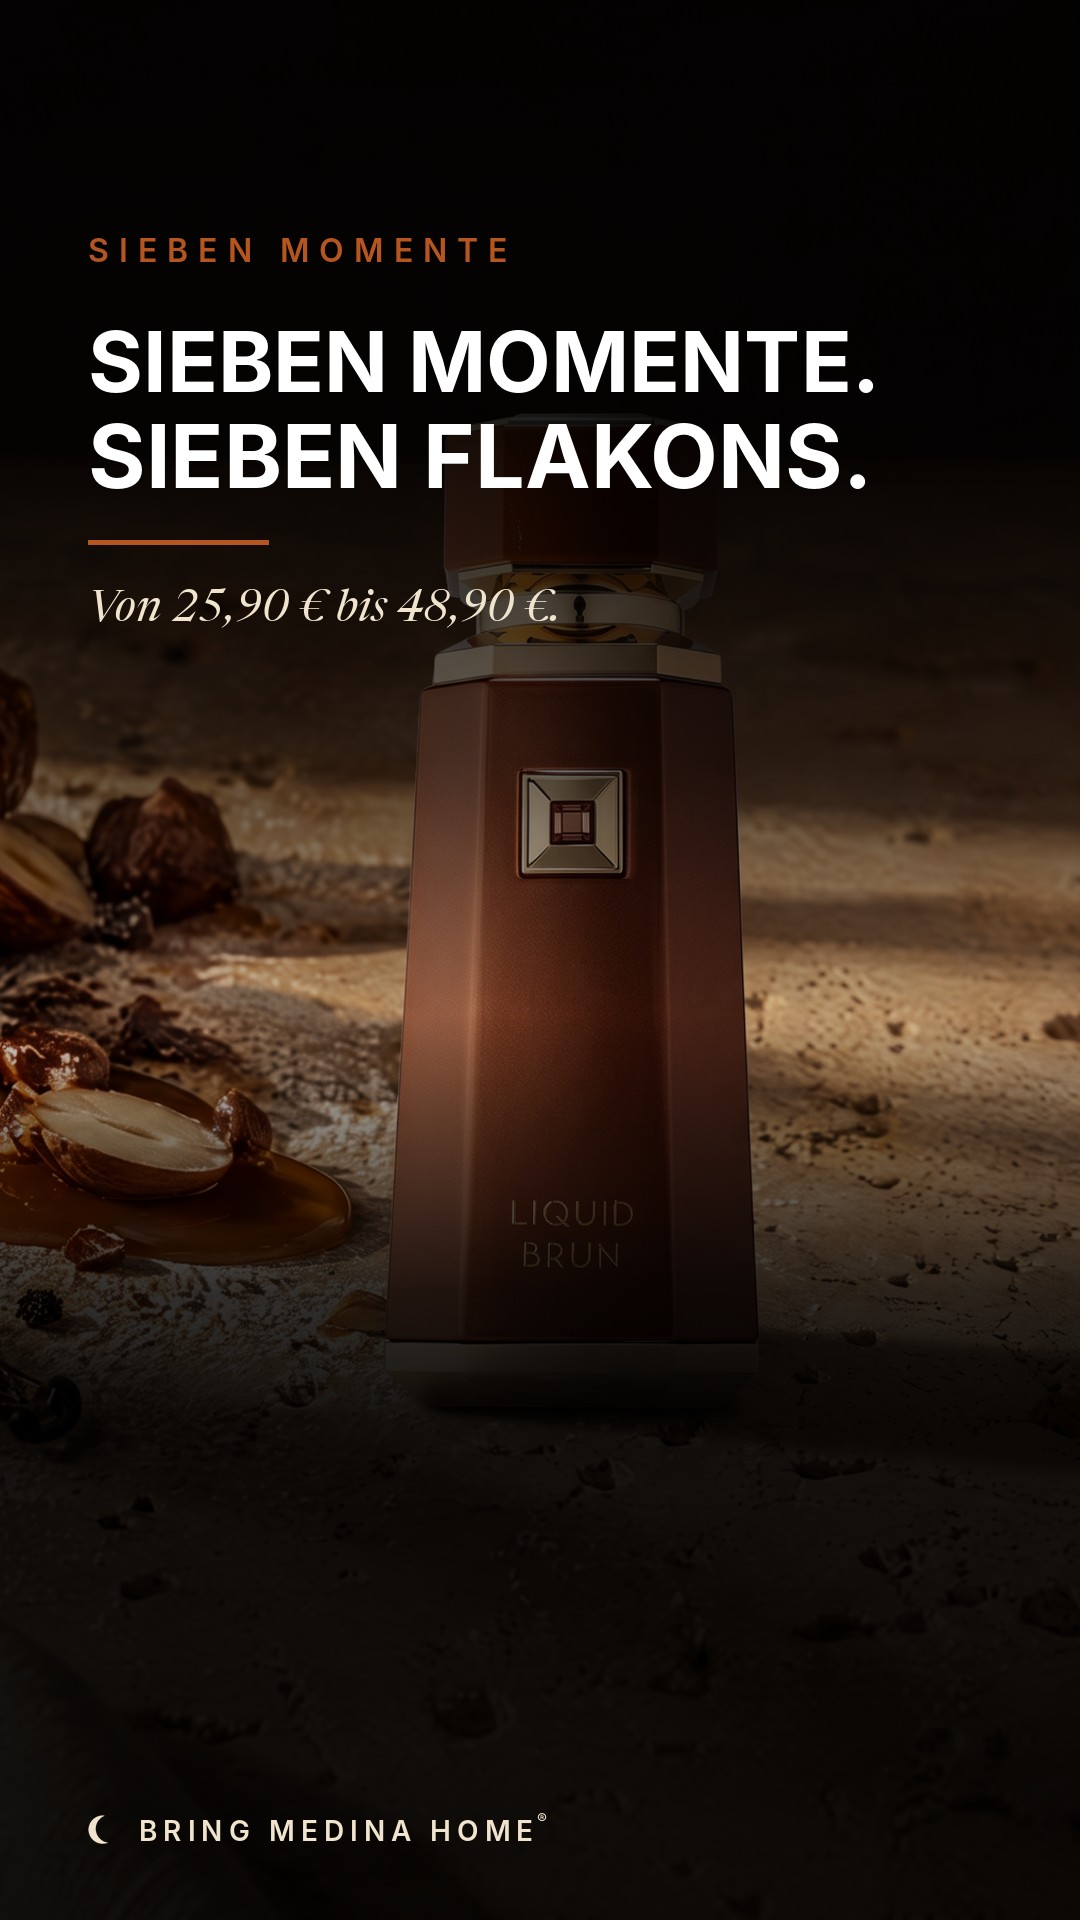
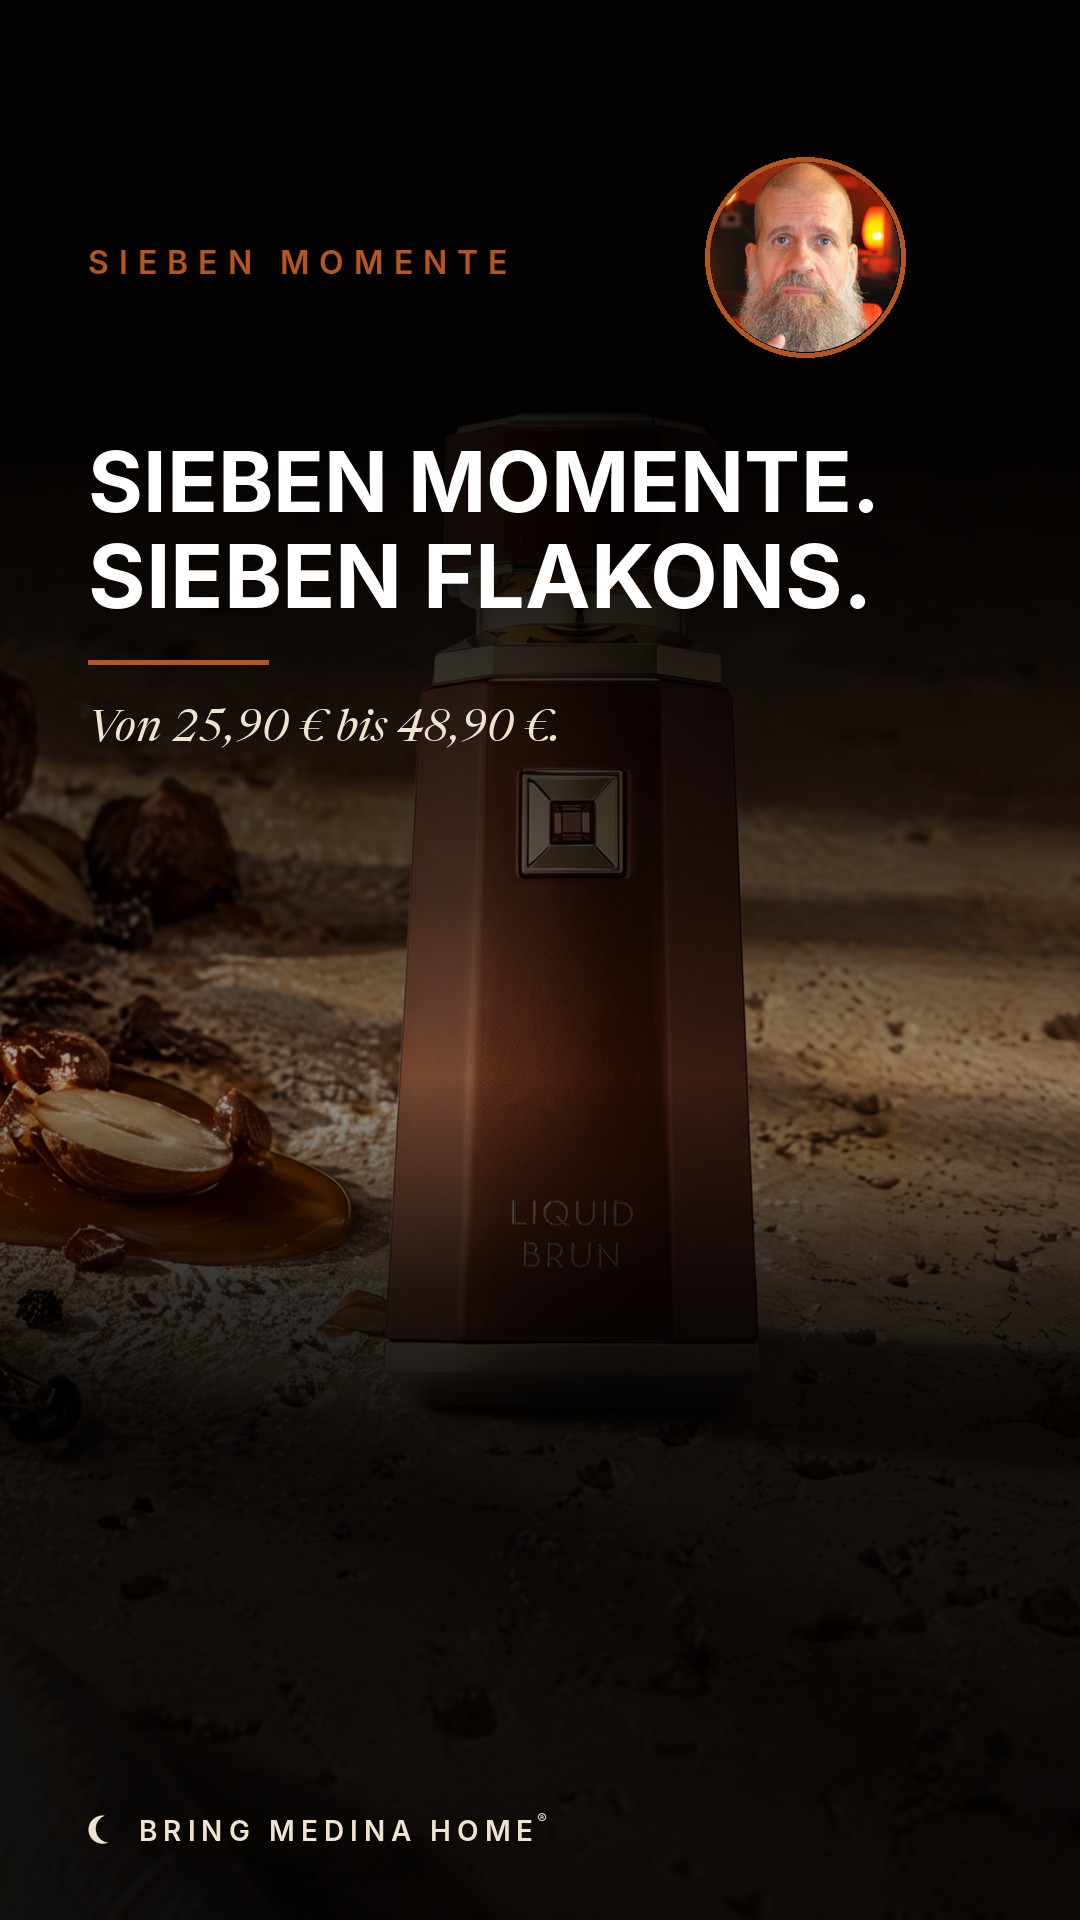
Le visage de Daoud sur la couverture du 16/11
Il a donné son accord et envoyé la photo. Détourée en rond, 190 px, cercle
ocre, en haut à droite de la diapo 1. Les deux comptes de tier list relevés
le 16/11 mettent la photo du créateur dans la première case, et tout le haut
de la catégorie parfum est porté par des créateurs.

Accord aussi pour tester le format dupe, avec la formulation « si tu aimes
celui-là, regarde celui-ci » et jamais un signe égal.

Claude-Session: https://claude.ai/code/session_01WRuYh1Ti56z8AmDfbamWmu

Changed region(s): [[0.0, 0.0625, 0.8556, 0.5625], [0.6111, 0.4062, 1.0, 0.5625]]

diff --git a/carrousels/moments16novembre/carrousel.py b/carrousels/moments16novembre/carrousel.py
@@ -200,7 +200,7 @@ def plein_cadre(ean):
 
 VOILE_HAUT = [(0, 225), (380, 205), (700, 95), (980, 0)]
 VOILE_BAS  = [(960, 0), (1130, 120), (1290, 205), (1420, 232), (1920, 238)]
-VOILE_COUV = [(0, 230), (420, 220), (760, 150), (1100, 0)]
+VOILE_COUV = [(0, 232), (560, 226), (900, 160), (1260, 0)]
 VOILE_FIN  = [(0, 232), (520, 226), (900, 175), (1320, 0)]
 
 
@@ -226,6 +226,28 @@ def voile(img, haut=None, bas=None):
             m.load()[0, y] = max(m.load()[0, y], r.load()[0, y])
     img.paste(Image.new("RGB", (W, H), (0, 0, 0)),
               (0, 0), m.resize((W, H), Image.BILINEAR))
+    return img
+
+
+VISAGE = os.path.join(RACINE, "daoud.png")
+
+
+def poser_visage(img, cote=190, y=162):
+    """Le visage de Daoud, en rond, en haut a droite de la couverture.
+
+    Releve du 16/11 : les deux comptes de tier list qui performent mettent la
+    photo du createur dans la premiere case du tableau, et la totalite du haut
+    de la categorie parfum est portee par des createurs, pas par des marques.
+    BMH publiait des flacons sans personne derriere. Daoud a un visage et
+    246 739 abonnes : c'est le changement le moins cher qui restait.
+    """
+    if not os.path.exists(VISAGE):
+        return img
+    v = Image.open(VISAGE).convert("RGBA").resize((cote, cote), Image.LANCZOS)
+    x = W - MARGE_D - cote
+    d = ImageDraw.Draw(img)
+    d.ellipse([x - 5, y - 5, x + cote + 5, y + cote + 5], outline=OCRE, width=5)
+    img.paste(v, (x, y), v)
     return img
 
 
@@ -412,13 +434,14 @@ def taille_moment(lg):
 def diapo_couverture(lg):
     img = voile(plein_cadre("6290360375694"), haut=VOILE_COUV)
     d = ImageDraw.Draw(img)
-    lettrage(d, 250, T["sup"][lg], inter(32, "SemiBold"), OCRE, 10)
-    y = 310
+    lettrage(d, 262, T["sup"][lg], inter(32, "SemiBold"), OCRE, 10)
+    y = 430
     for ligne in T["couv"][lg].split("\n"):
         y = bloc_caps(d, MARGE_G, y, ligne, 104, BLANC, LARGE, y + 150)
     d.line([(MARGE_G, y + 44), (MARGE_G + 180, y + 44)], fill=OCRE, width=5)
     bloc_ajuste(d, MARGE_G, y + 90, [T["couv_s"][lg]], 44, CREME, LARGE,
                 1380, ital=True)
+    poser_visage(img)
     poser_signature(img, MARGE_G, 1830, CREME)
     return img
 
